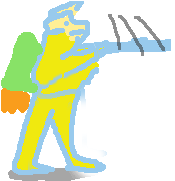
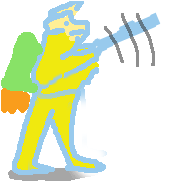
Changed names for sprites

Changed region(s): [[0.5143, 0.0552, 1.0, 0.3867]]

diff --git a/js/bundle.js b/js/bundle.js
@@ -137,7 +137,7 @@ function Game(){
             enemy.frameProcess();
         });
         if (game.frameCount % (60*4) === 0){
-            game.enemies.push(randomSpawn(game,Newton));
+            //game.enemies.push(randomSpawn(game,Newton));
         }
         game.playerAttacks.forEach(atk=>{
             game.enemies.forEach(enemy=>atk.checkHit(enemy));
@@ -285,7 +285,7 @@ function Player(game, x, y){
     },
     char._attackProcess = function(){
         if (this.atkFrame === 10){
-            this.game.playerAttacks.push(Hitbox(this.x+(this.width/2+20)*this.facing, this.y+20, 40, 10));
+            this.game.playerAttacks.push(Hitbox(this.x+(this.width/2+20)*this.facing, this.y-20, 40, 10));
         }
         else if (this.atkFrame === 15){
             this.atkFrame = 0;

diff --git a/js/player.js b/js/player.js
@@ -25,7 +25,7 @@ function Player(game, x, y){
     },
     char._attackProcess = function(){
         if (this.atkFrame === 10){
-            this.game.playerAttacks.push(Hitbox(this.x+(this.width/2+20)*this.facing, this.y+20, 40, 10));
+            this.game.playerAttacks.push(Hitbox(this.x+(this.width/2+20)*this.facing, this.y-20, 40, 10));
         }
         else if (this.atkFrame === 15){
             this.atkFrame = 0;

diff --git a/js/game.js b/js/game.js
@@ -24,7 +24,7 @@ function Game(){
             enemy.frameProcess();
         });
         if (game.frameCount % (60*4) === 0){
-            game.enemies.push(randomSpawn(game,Newton));
+            //game.enemies.push(randomSpawn(game,Newton));
         }
         game.playerAttacks.forEach(atk=>{
             game.enemies.forEach(enemy=>atk.checkHit(enemy));
